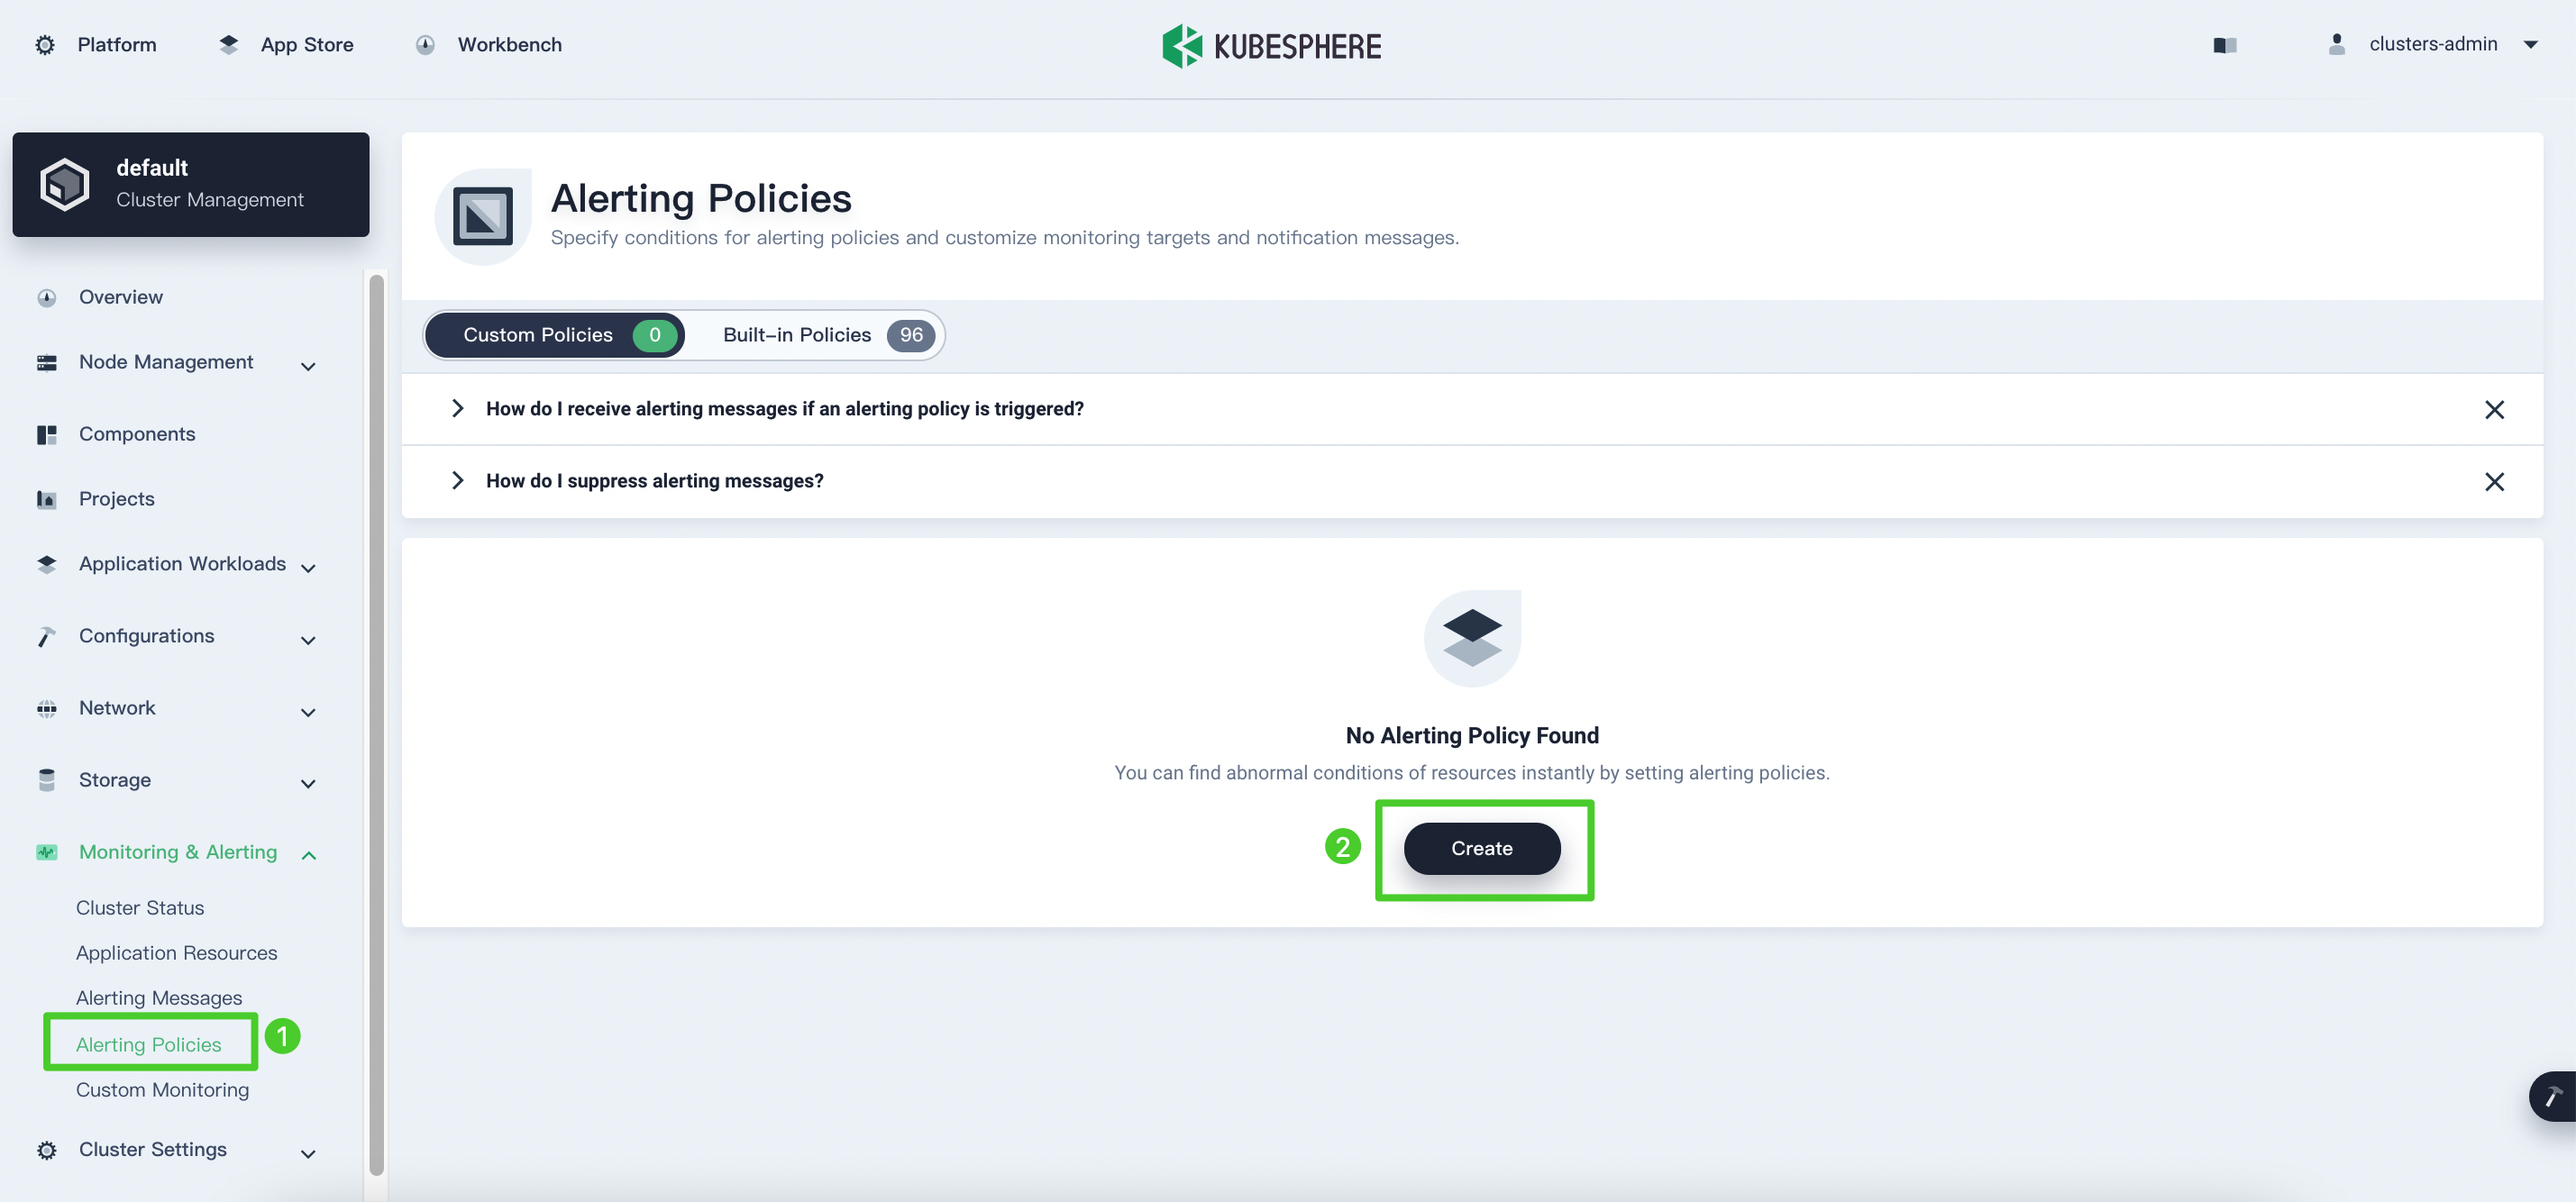
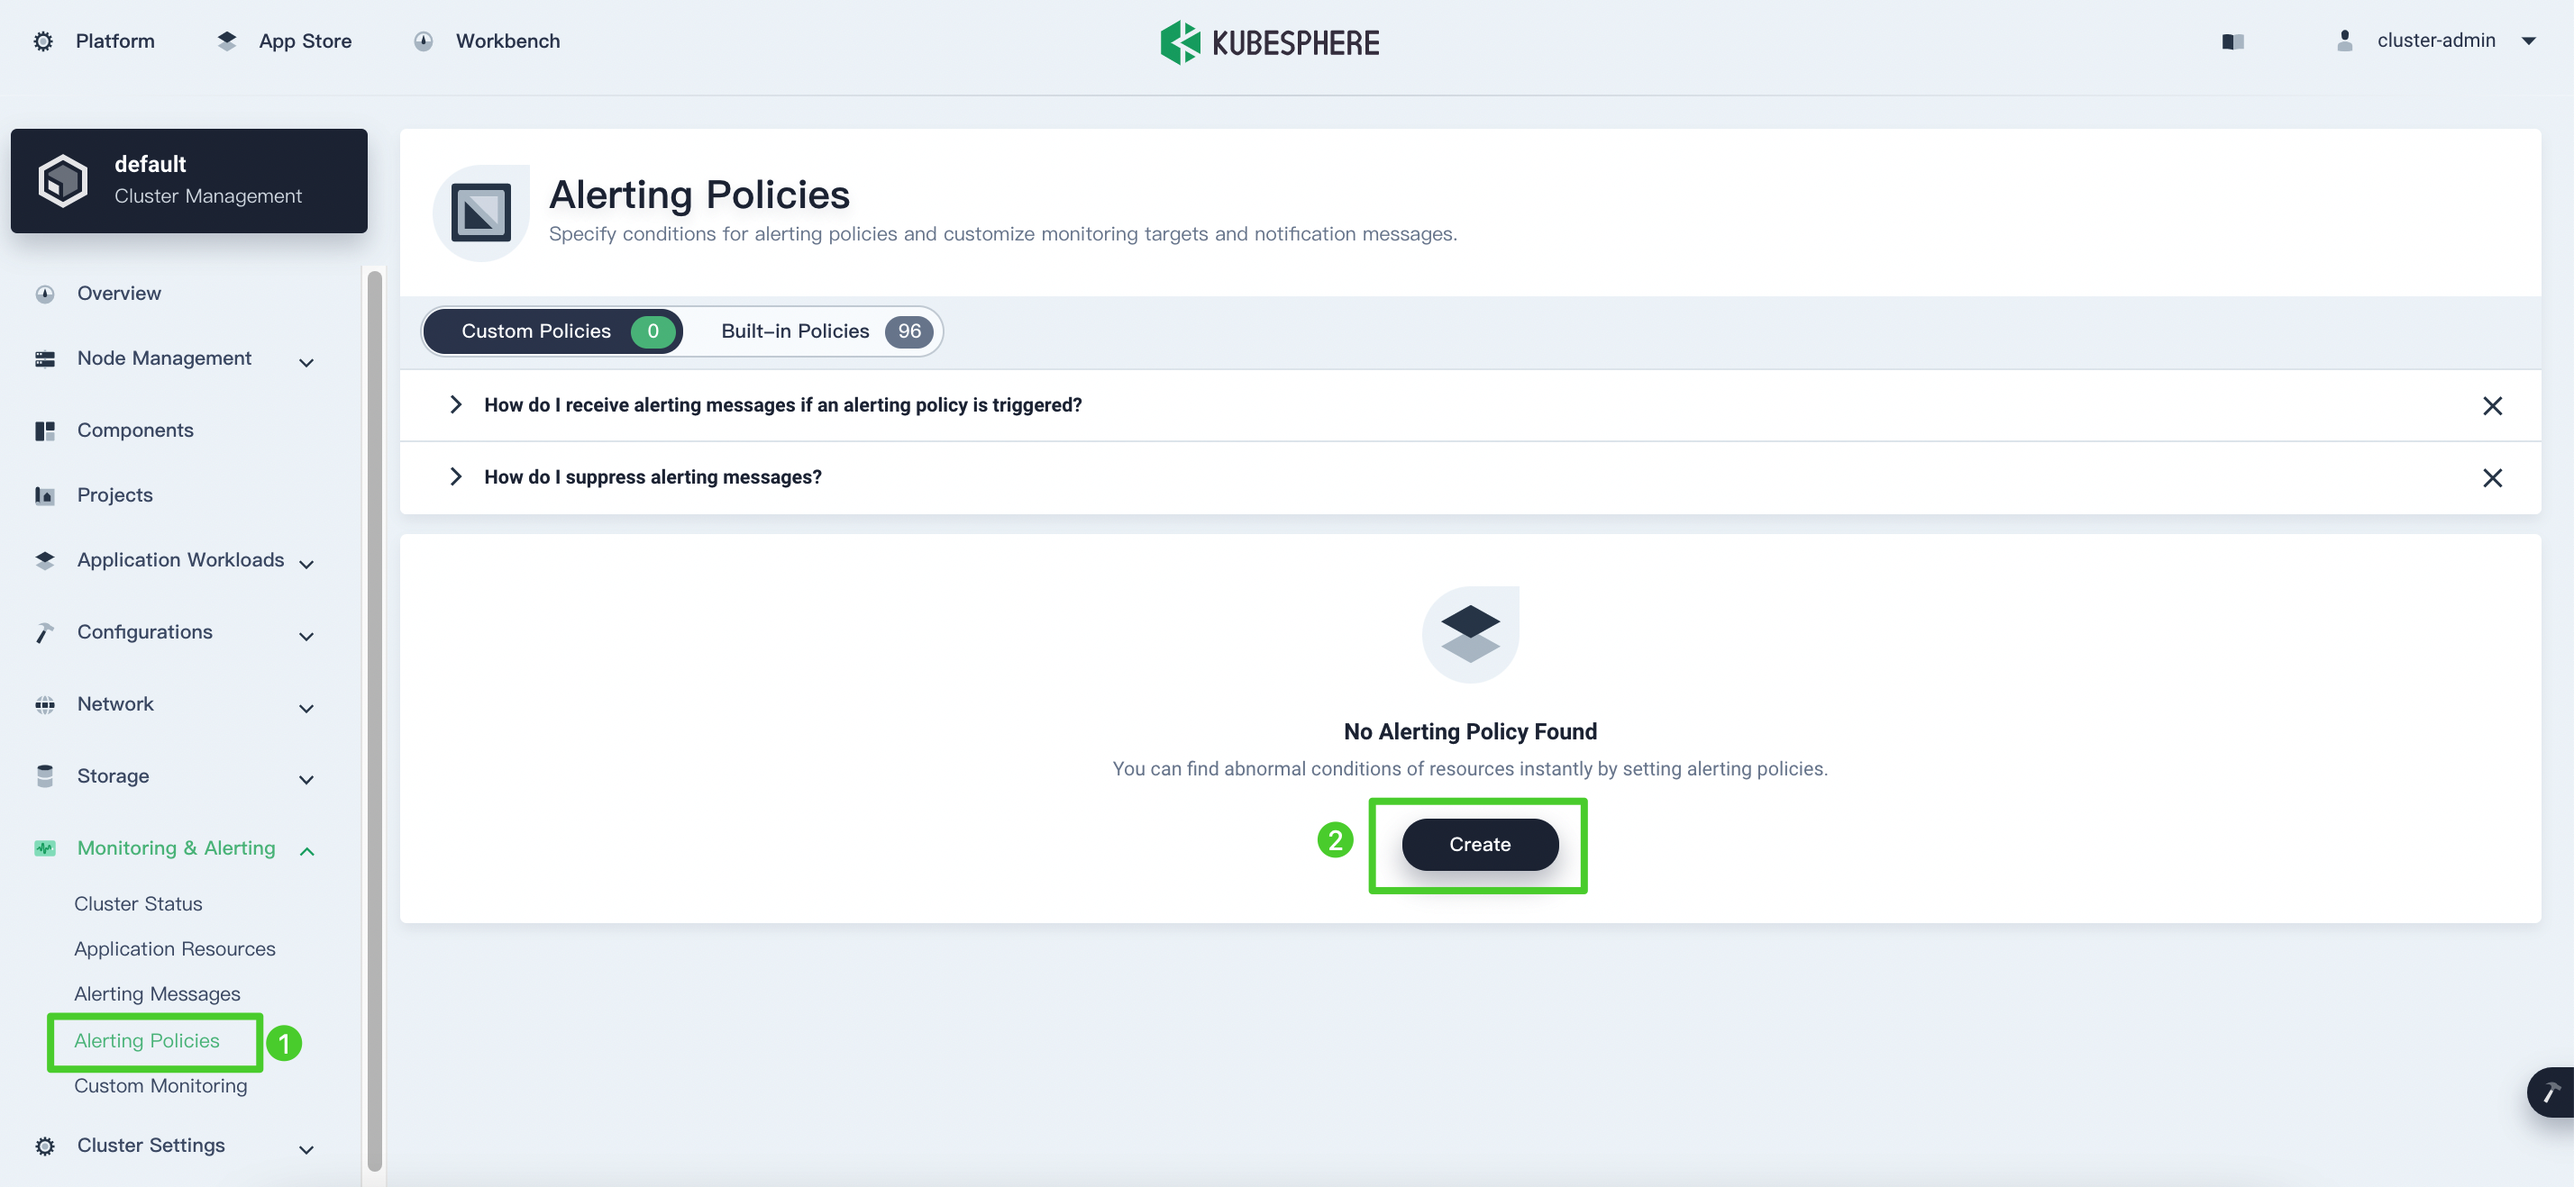
account name and images updated

diff --git a/content/en/docs/cluster-administration/cluster-wide-alerting-and-notification/alerting-policy.md b/content/en/docs/cluster-administration/cluster-wide-alerting-and-notification/alerting-policy.md
@@ -12,12 +12,12 @@ KubeSphere provides alerting policies for nodes and workloads. This tutorial dem
 
 - You have enabled [KubeSphere Alerting](../../../pluggable-components/alerting/).
 - To receive alert notifications, you must configure a [notification channel](../../../cluster-administration/platform-settings/notification-management/configure-email/) beforehand.
-- You need to create an account (`clusters-admin`) and grant it with the `clusters-admin` role. For more information, see [Create Workspaces, Projects, Accounts and Roles](../../../quick-start/create-workspace-and-project/#step-4-create-a-role).
+- You need to create an account (`cluster-admin`) and grant it with the `clusters-admin` role. For more information, see [Create Workspaces, Projects, Accounts and Roles](../../../quick-start/create-workspace-and-project/#step-4-create-a-role).
 - You have workloads in your cluster. If they are not ready, see [Deploy and Access Bookinfo](../../../quick-start/deploy-bookinfo-to-k8s/) to create a sample app.
 
 ## Create an Alerting Policy
 
-1. Log in to the console as `clusters-admin`. Click **Platform** in the top left corner, and then click **Cluster Management**.
+1. Log in to the console as `cluster-admin`. Click **Platform** in the top left corner, and then click **Cluster Management**.
 
 2. Navigate to **Alerting Policies** under **Monitoring & Alerting**, and then click **Create**.
 
